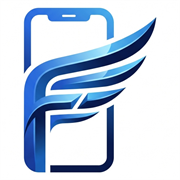
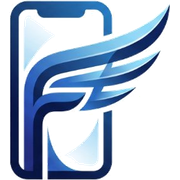
Fix

diff --git a/src/features/Auth/components/NavBar.jsx b/src/features/Auth/components/NavBar.jsx
@@ -535,14 +535,13 @@ export default function NavBar() {
         <div className="flex items-center justify-between gap-2 sm:gap-3">
 
           {/* Logo */}
-            <div className="flex items-center space-x-2 flex-shrink-0 cursor-pointer" onClick={() => navigate("/")}>
-              <img
-                src="/nav-logo.png"
-                alt="FELCON Logo"
-                className="h-8 sm:h-10 w-auto object-contain rounded-lg"
-              />
-              <span className="font-black text-xl tracking-tight text-[#0077b6] hidden xs:inline-block">FELCON</span>
-            </div>
+          <div className="flex items-center flex-shrink-0 cursor-pointer" onClick={() => navigate("/")}>
+            <img
+              src="/nav-logo.png"
+              alt="FELCON Logo"
+              className="h-8 sm:h-9 md:h-10 w-auto object-contain"
+            />
+          </div>
 
           {/* Search bar — desktop only, hidden for admins */}
           {!isAdmin && !isFilterPage && (
